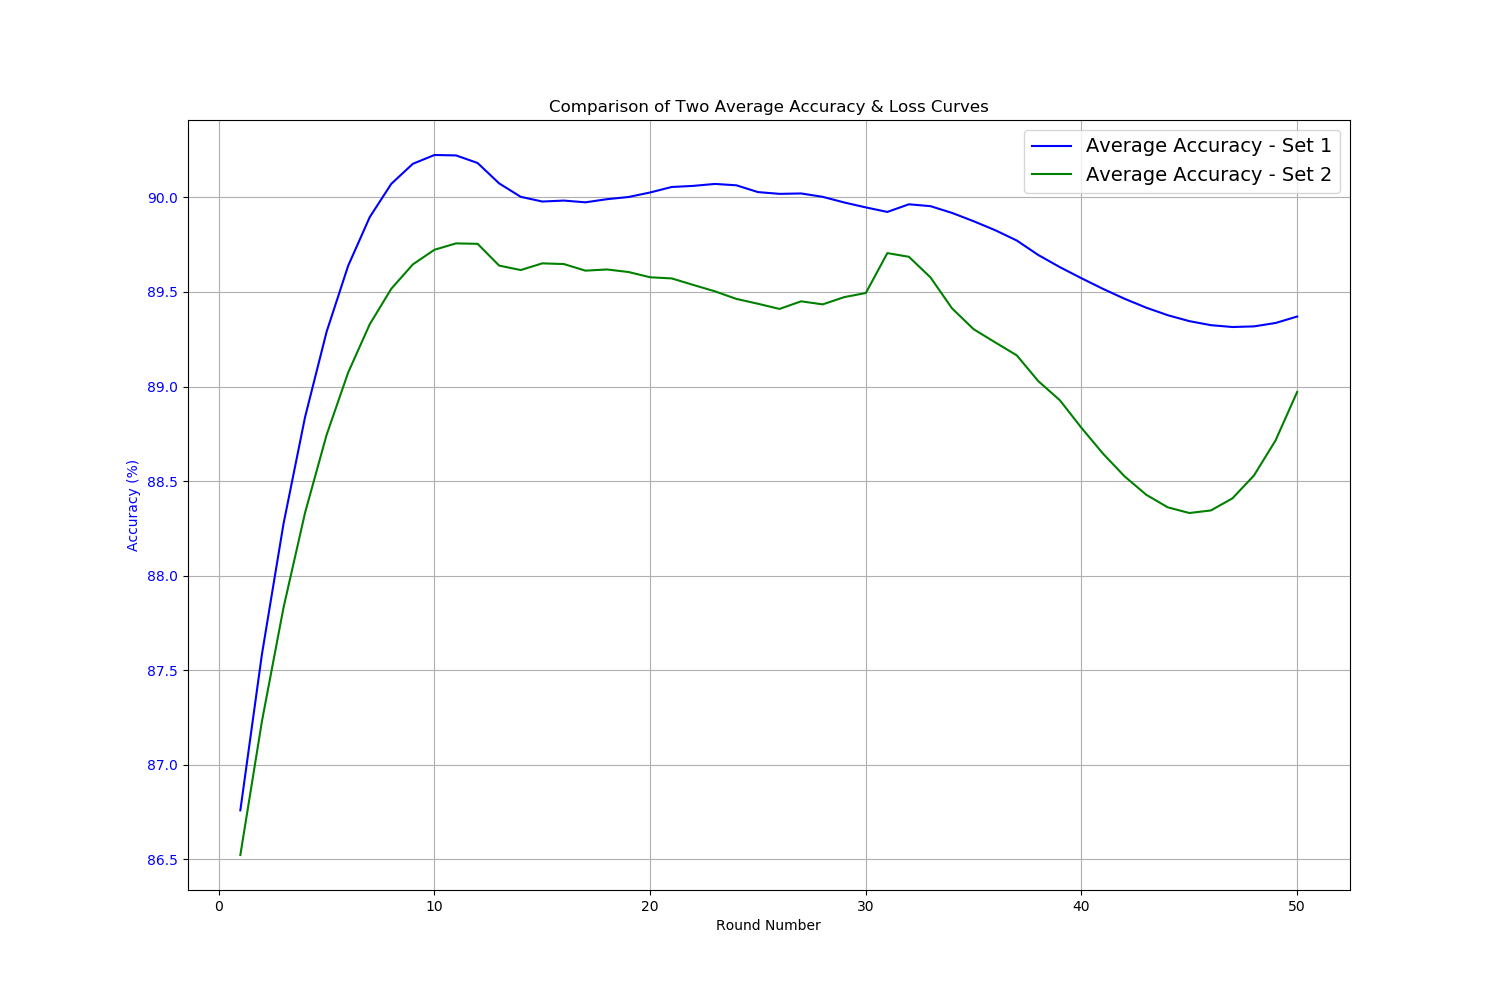
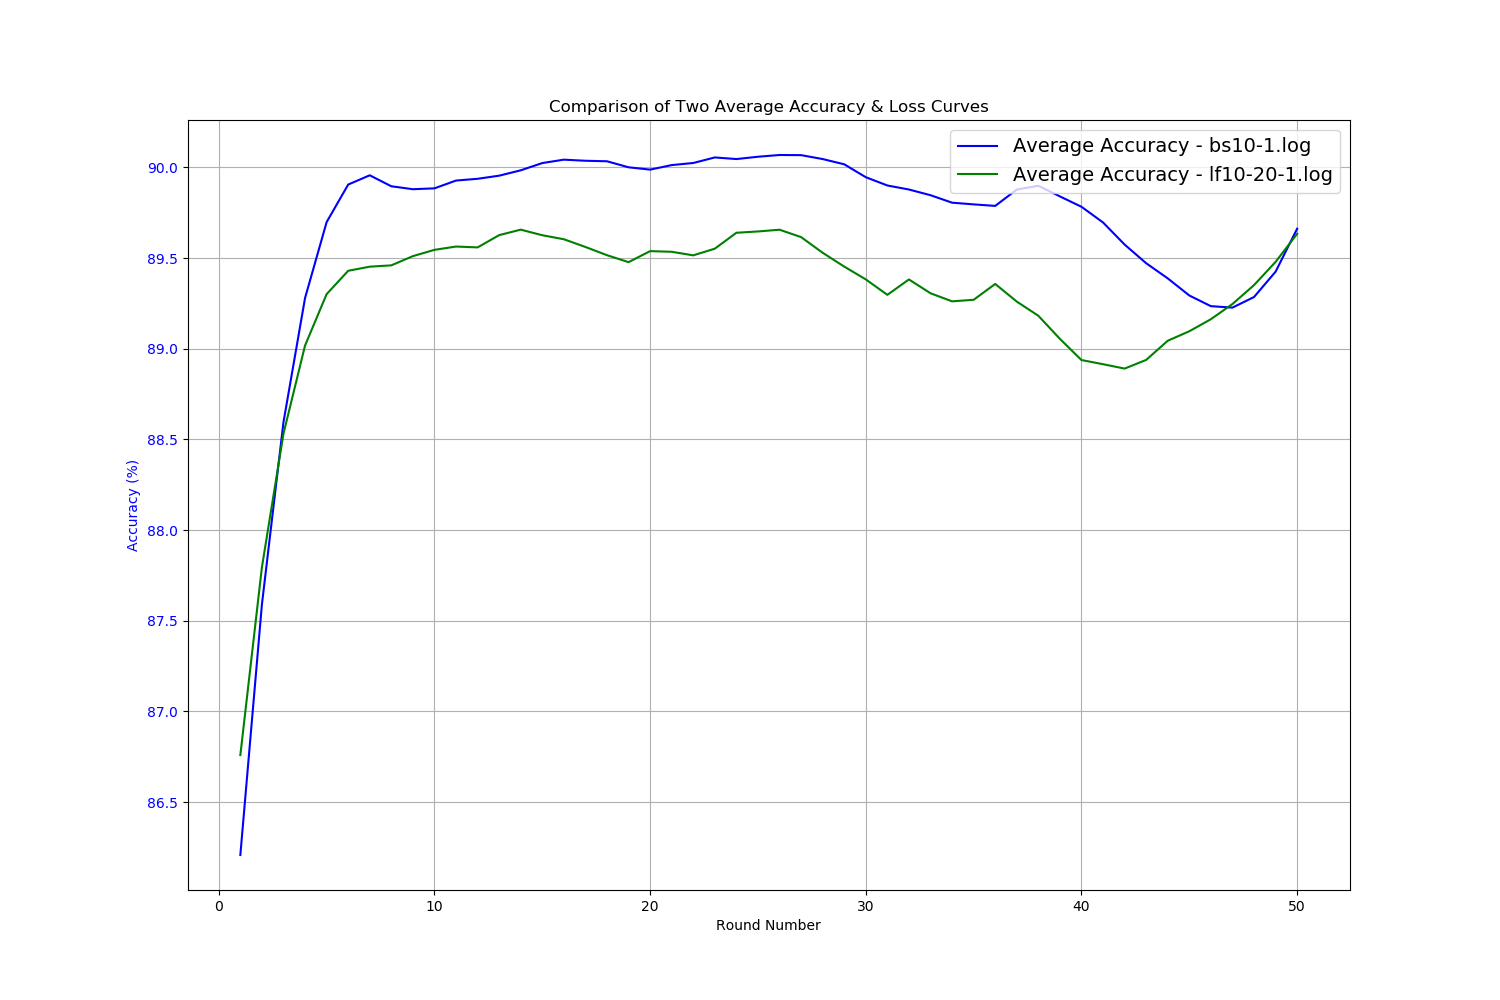
Add loss feature in process_logs

diff --git a/process_logs.py b/process_logs.py
@@ -2,13 +2,15 @@ import argparse
 import re
 import numpy as np
 
-def parse_log(log_file, max_round):
+def parse_log(log_file, max_round, loss_flag):
     """ 解析日志文件，提取轮数和准确率 """
     rounds = []
     accuracies = []
 
     round_pattern = re.compile(r"\*\*\*\* Round (\d+)/\d+ \*\*\*\*")
     accuracy_pattern = re.compile(r"Average accuracy: (\d+\.\d+)%")
+    if loss_flag:
+        accuracy_pattern = re.compile(r"Loss: (\d+\.\d+)")
 
     with open(log_file, "r", encoding="utf-8") as f:
         for line in f:
@@ -26,14 +28,14 @@ def parse_log(log_file, max_round):
 
     return rounds, accuracies
 
-def process_logs(log_files, output_file, max_round):
+def process_logs(log_files, output_file, max_round, loss_flag):
     """ 处理多个日志文件并计算平均值，保存数据到文件 """
     all_rounds = []
     all_accuracies = []
 
     for log_file in log_files:
         log_file = "logs/" + log_file
-        rounds, accuracies = parse_log(log_file, max_round)
+        rounds, accuracies = parse_log(log_file, max_round, loss_flag)
         all_rounds.append(rounds)
         all_accuracies.append(accuracies)
 
@@ -46,10 +48,10 @@ def process_logs(log_files, output_file, max_round):
             f.write(f"{round_num},{acc:.2f}\n")
 
 if __name__ == "__main__":
-    parser = argparse.ArgumentParser(description="Process log files to compute average accuracy.")
+    parser = argparse.ArgumentParser(description="Process log files to compute average accuracy or loss.")
     parser.add_argument('-f', '--files', type=str, nargs='+', required=True, help='List of log file paths to process.')
     parser.add_argument('-o', '--output', type=str, default='processed_data.csv', help='Output data filename.')
     parser.add_argument('-r', '--rounds', type=int, default=50, help='Maximum rounds.')
-
+    parser.add_argument('-l',  '--loss', action='store_true', help="compute loss instead of accuracy")
     args = parser.parse_args()
-    process_logs(args.files, args.output, args.rounds)
+    process_logs(args.files, args.output, args.rounds, args.loss)

diff --git a/avg_plot.py b/avg_plot.py
@@ -4,7 +4,7 @@ import matplotlib.pyplot as plt
 import numpy as np
 from scipy.signal import savgol_filter
 
-def smooth_data(y_values, window_size=23, poly_order=3):
+def smooth_data(y_values, window_size=13, poly_order=3):
     return savgol_filter(y_values, window_size, poly_order)
 
 def parse_log(log_file, max_round, loss_curve):
@@ -68,15 +68,15 @@ def plot_comparison(log_files_set1, log_files_set2, output_image, max_round, los
     smoothed_avg_accuracies1 = smooth_data(avg_accuracies1)
     smoothed_avg_accuracies2 = smooth_data(avg_accuracies2)
 
-    ax1.plot(rounds1, smoothed_avg_accuracies1, linestyle='-', color='blue', label="Average Accuracy - Set 1")
-    ax1.plot(rounds2, smoothed_avg_accuracies2, linestyle='-', color='green', label="Average Accuracy - Set 2")
+    ax1.plot(rounds1, smoothed_avg_accuracies1, linestyle='-', color='blue', label="Average Accuracy - {}".format(log_files_set1[0]))
+    ax1.plot(rounds2, smoothed_avg_accuracies2, linestyle='-', color='green', label="Average Accuracy - {}".format(log_files_set2[0]))
 
     if loss_curve_flag:
         smoothed_avg_losses1 = smooth_data(avg_losses1)
         smoothed_avg_losses2 = smooth_data(avg_losses2)
 
-        ax2.plot(rounds1, smoothed_avg_losses1, linestyle='--', color='red', label="Average Loss - Set 1")
-        ax2.plot(rounds2, smoothed_avg_losses2, linestyle='--', color='orange', label="Average Loss - Set 2")
+        ax2.plot(rounds1, smoothed_avg_losses1, linestyle='--', color='red', label="Average Loss - {}".format(log_files_set1[0]))
+        ax2.plot(rounds2, smoothed_avg_losses2, linestyle='--', color='orange', label="Average Loss - {}".format(log_files_set2[0]))
 
     ax1.set_xlabel("Round Number")
     ax1.set_ylabel("Accuracy (%)", color='b')

diff --git a/plot_data.py b/plot_data.py
@@ -19,7 +19,7 @@ def read_data(input_file):
 
     return rounds, accuracies
 
-def plot_data(input_files, output_image):
+def plot_data(input_files, output_image, loss_flag):
     """ 绘制多个数据文件的曲线 """
     plt.figure(figsize=(12, 6))
     
@@ -29,8 +29,12 @@ def plot_data(input_files, output_image):
         plt.plot(rounds, accuracies, linestyle='-', label=input_file.split('.')[0])  # 直接使用文件名作为标签
 
     plt.xlabel("Round Number")
-    plt.ylabel("Accuracy (%)")
-    plt.title("Average Accuracy Trend Comparison")
+    if loss_flag:
+        plt.ylabel("Loss")
+        plt.title("Average Loss Trend Comparison")
+    else:
+        plt.ylabel("Accuracy (%)")
+        plt.title("Average Accuracy Trend Comparison")
     plt.legend()
     plt.grid(True)
 
@@ -38,9 +42,10 @@ def plot_data(input_files, output_image):
     plt.show()
 
 if __name__ == "__main__":
-    parser = argparse.ArgumentParser(description="Plot accuracy trend from multiple processed data files.")
+    parser = argparse.ArgumentParser(description="Plot accuracy/loss trend from multiple processed data files.")
     parser.add_argument('-i', '--input', type=str, nargs='+', required=True, help='List of input data files.')
     parser.add_argument('-o', '--output', type=str, default='accuracy_plot.png', help='Output image filename.')
+    parser.add_argument('-l',  '--loss', action='store_true', help="compute loss instead of accuracy")
 
     args = parser.parse_args()
-    plot_data(args.input, args.output)
+    plot_data(args.input, args.output, args.loss)

diff --git a/plot.py b/plot.py
@@ -5,7 +5,7 @@ import matplotlib.pyplot as plt
 import numpy as np
 from scipy.signal import savgol_filter
 
-def smooth_data(y_values, window_size=7, poly_order=2):
+def smooth_data(y_values, window_size=7, poly_order=3):
     return savgol_filter(y_values, window_size, poly_order)
 
 def compute_confidence_interval(data, confidence=0.95):
@@ -58,8 +58,8 @@ def plot_accuracy(log_files, output_image, max_round, loss_curve_flag):
         label = log_file.split('/')[-1]  # 使用文件名作为标签
 
         # 应用平滑滤波来绘制平滑曲线
-        smoothed_accuracies = smooth_data(accuracies)
-        ax1.plot(rounds, smoothed_accuracies, linestyle='-', label=label)
+        accuracies = smooth_data(accuracies)
+        ax1.plot(rounds, accuracies, linestyle='-', label=label)
         if loss_curve_flag:
             smoothed_losses = smooth_data(losses)
             ax2.plot(rounds, smoothed_losses, linestyle='--', label=f"Loss - {label}")

diff --git a/client.py b/client.py
@@ -58,9 +58,9 @@ class Client(object):
         # choose client 1 as the malicious client
         if injection:
             target_client_id = 1
-            percentage = 0.2
+            percentage = 0.5
             if self.client_id == target_client_id: 
-                logging.info('Choose client #{} to attack, flipping {} of all labels'.format(self.client_id, percentage))
+                logging.info('Choose client #{} to attack, injection_percentage is {}, {} method'.format(self.client_id, percentage, injection_method))
                 data = data_injection(data, percentage, injection_method)
         
         # Set data to trainset
